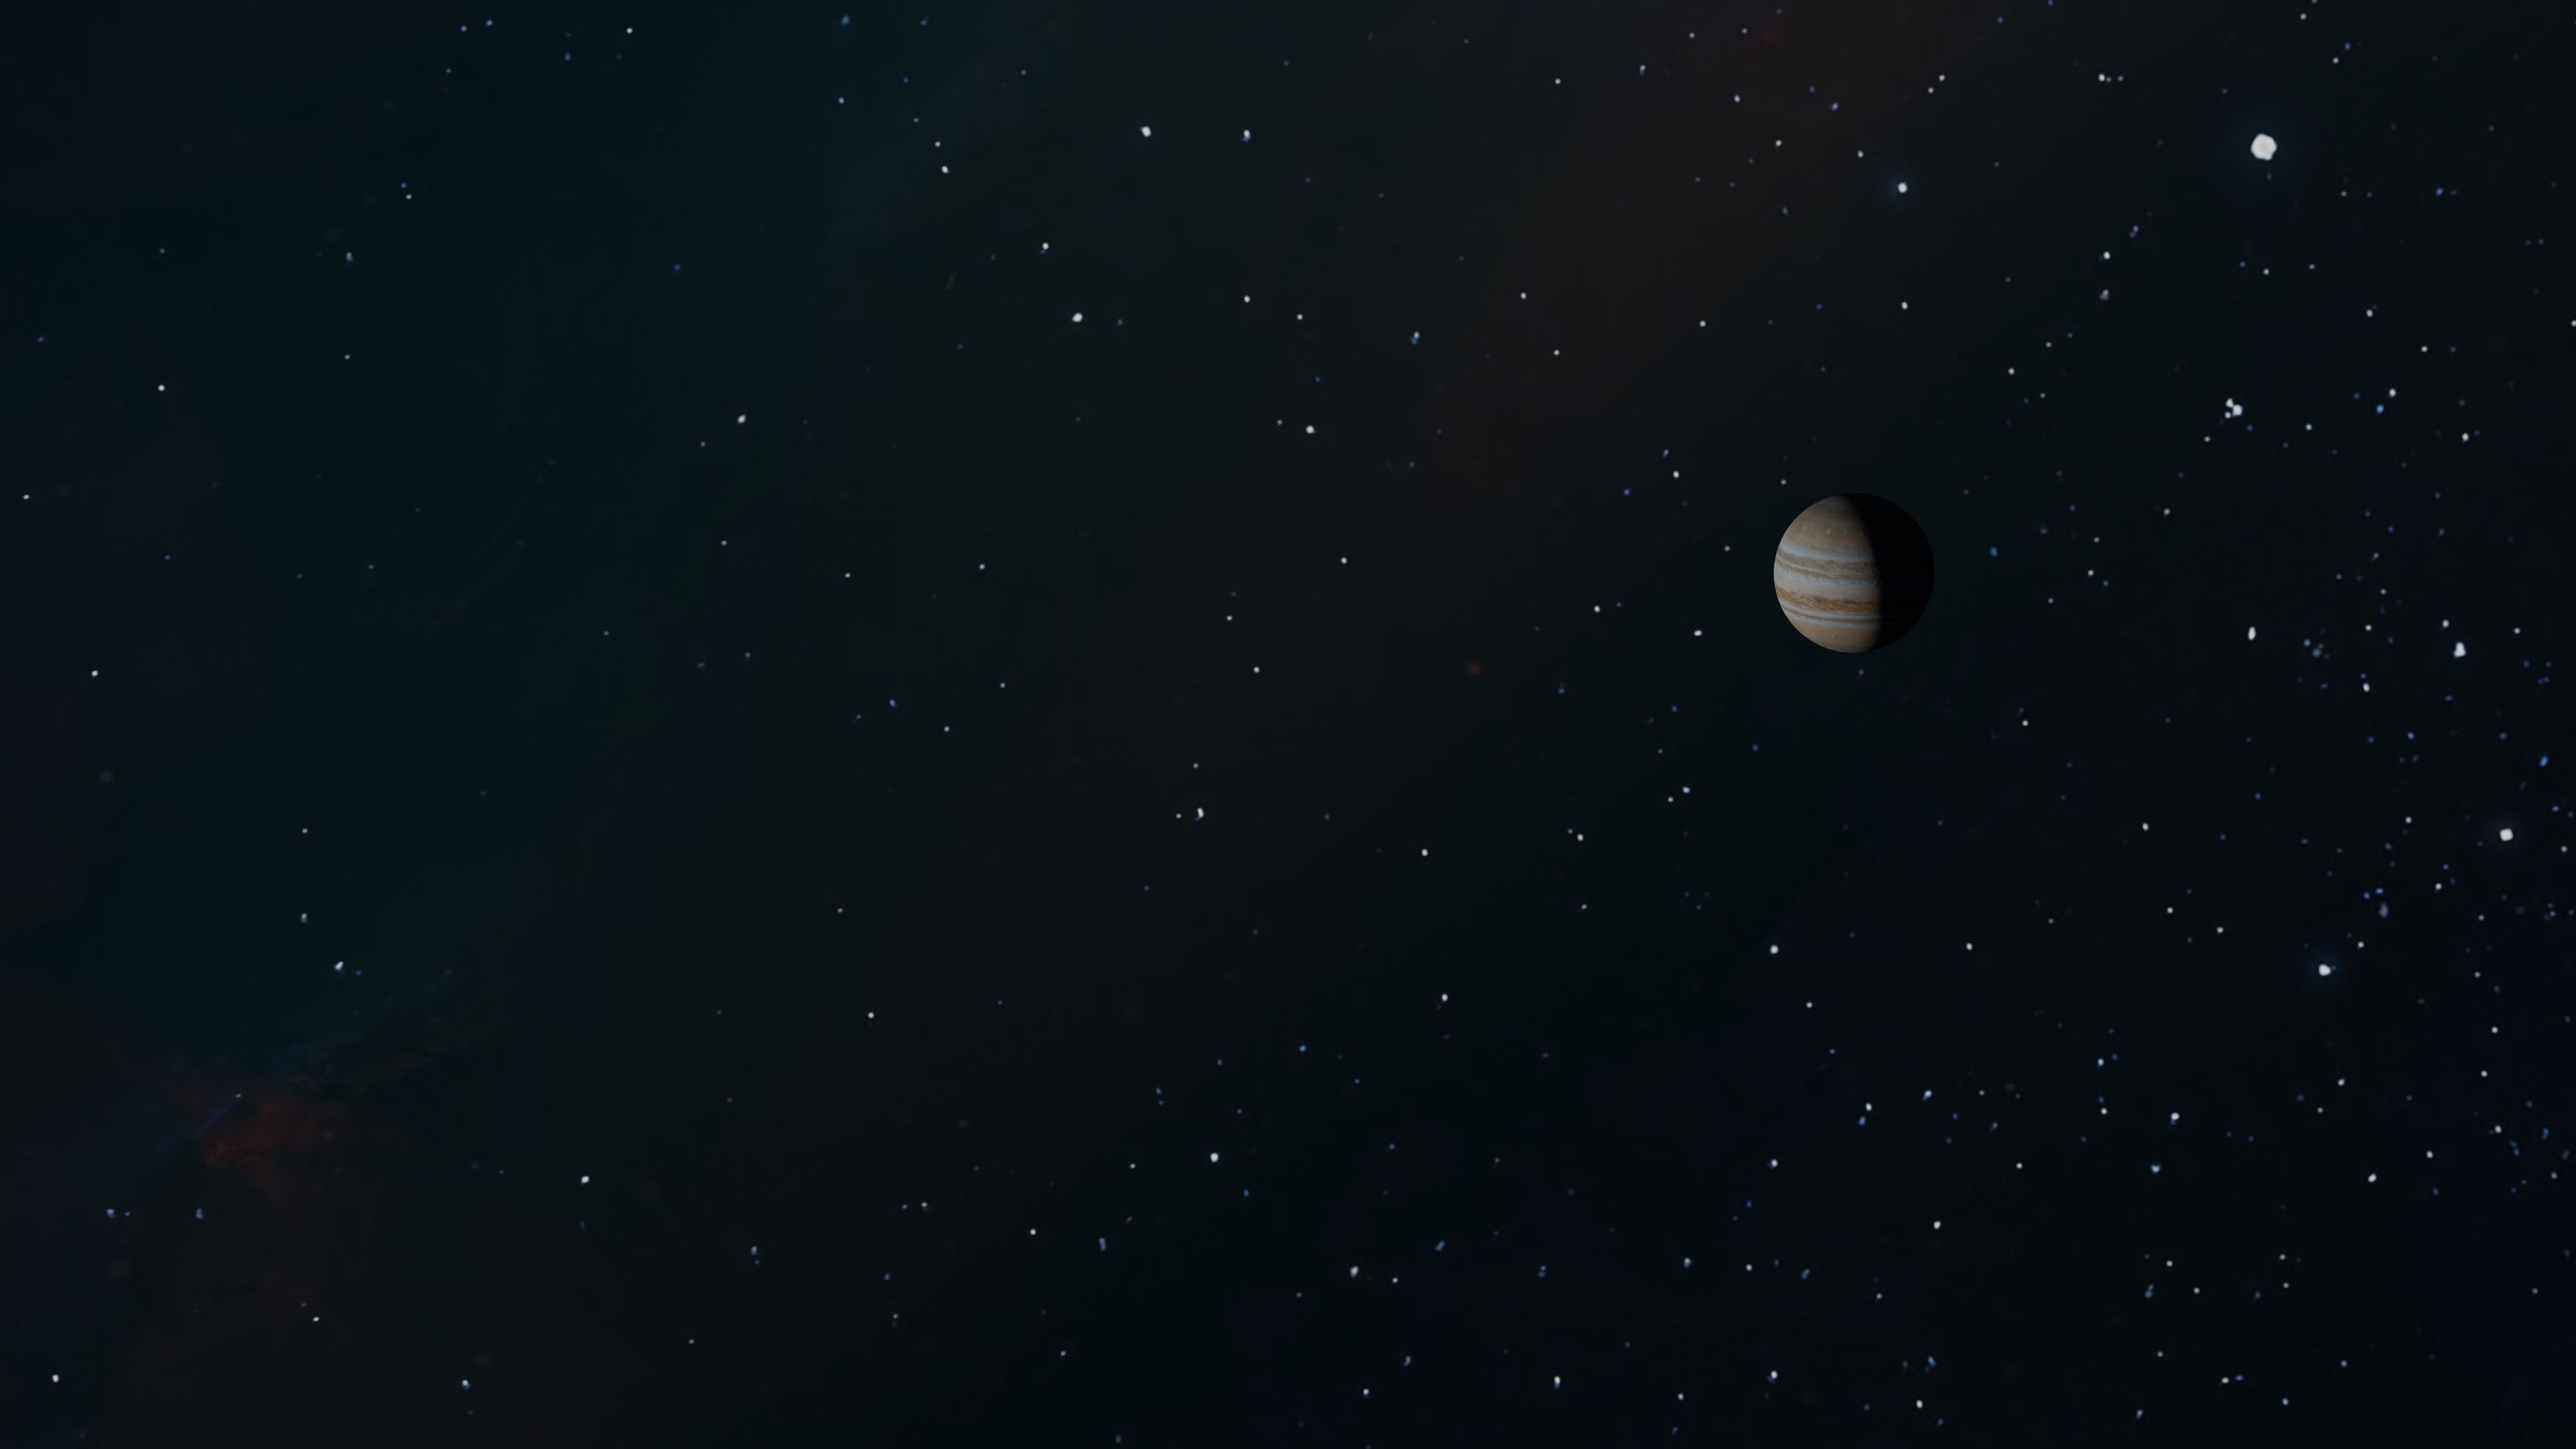
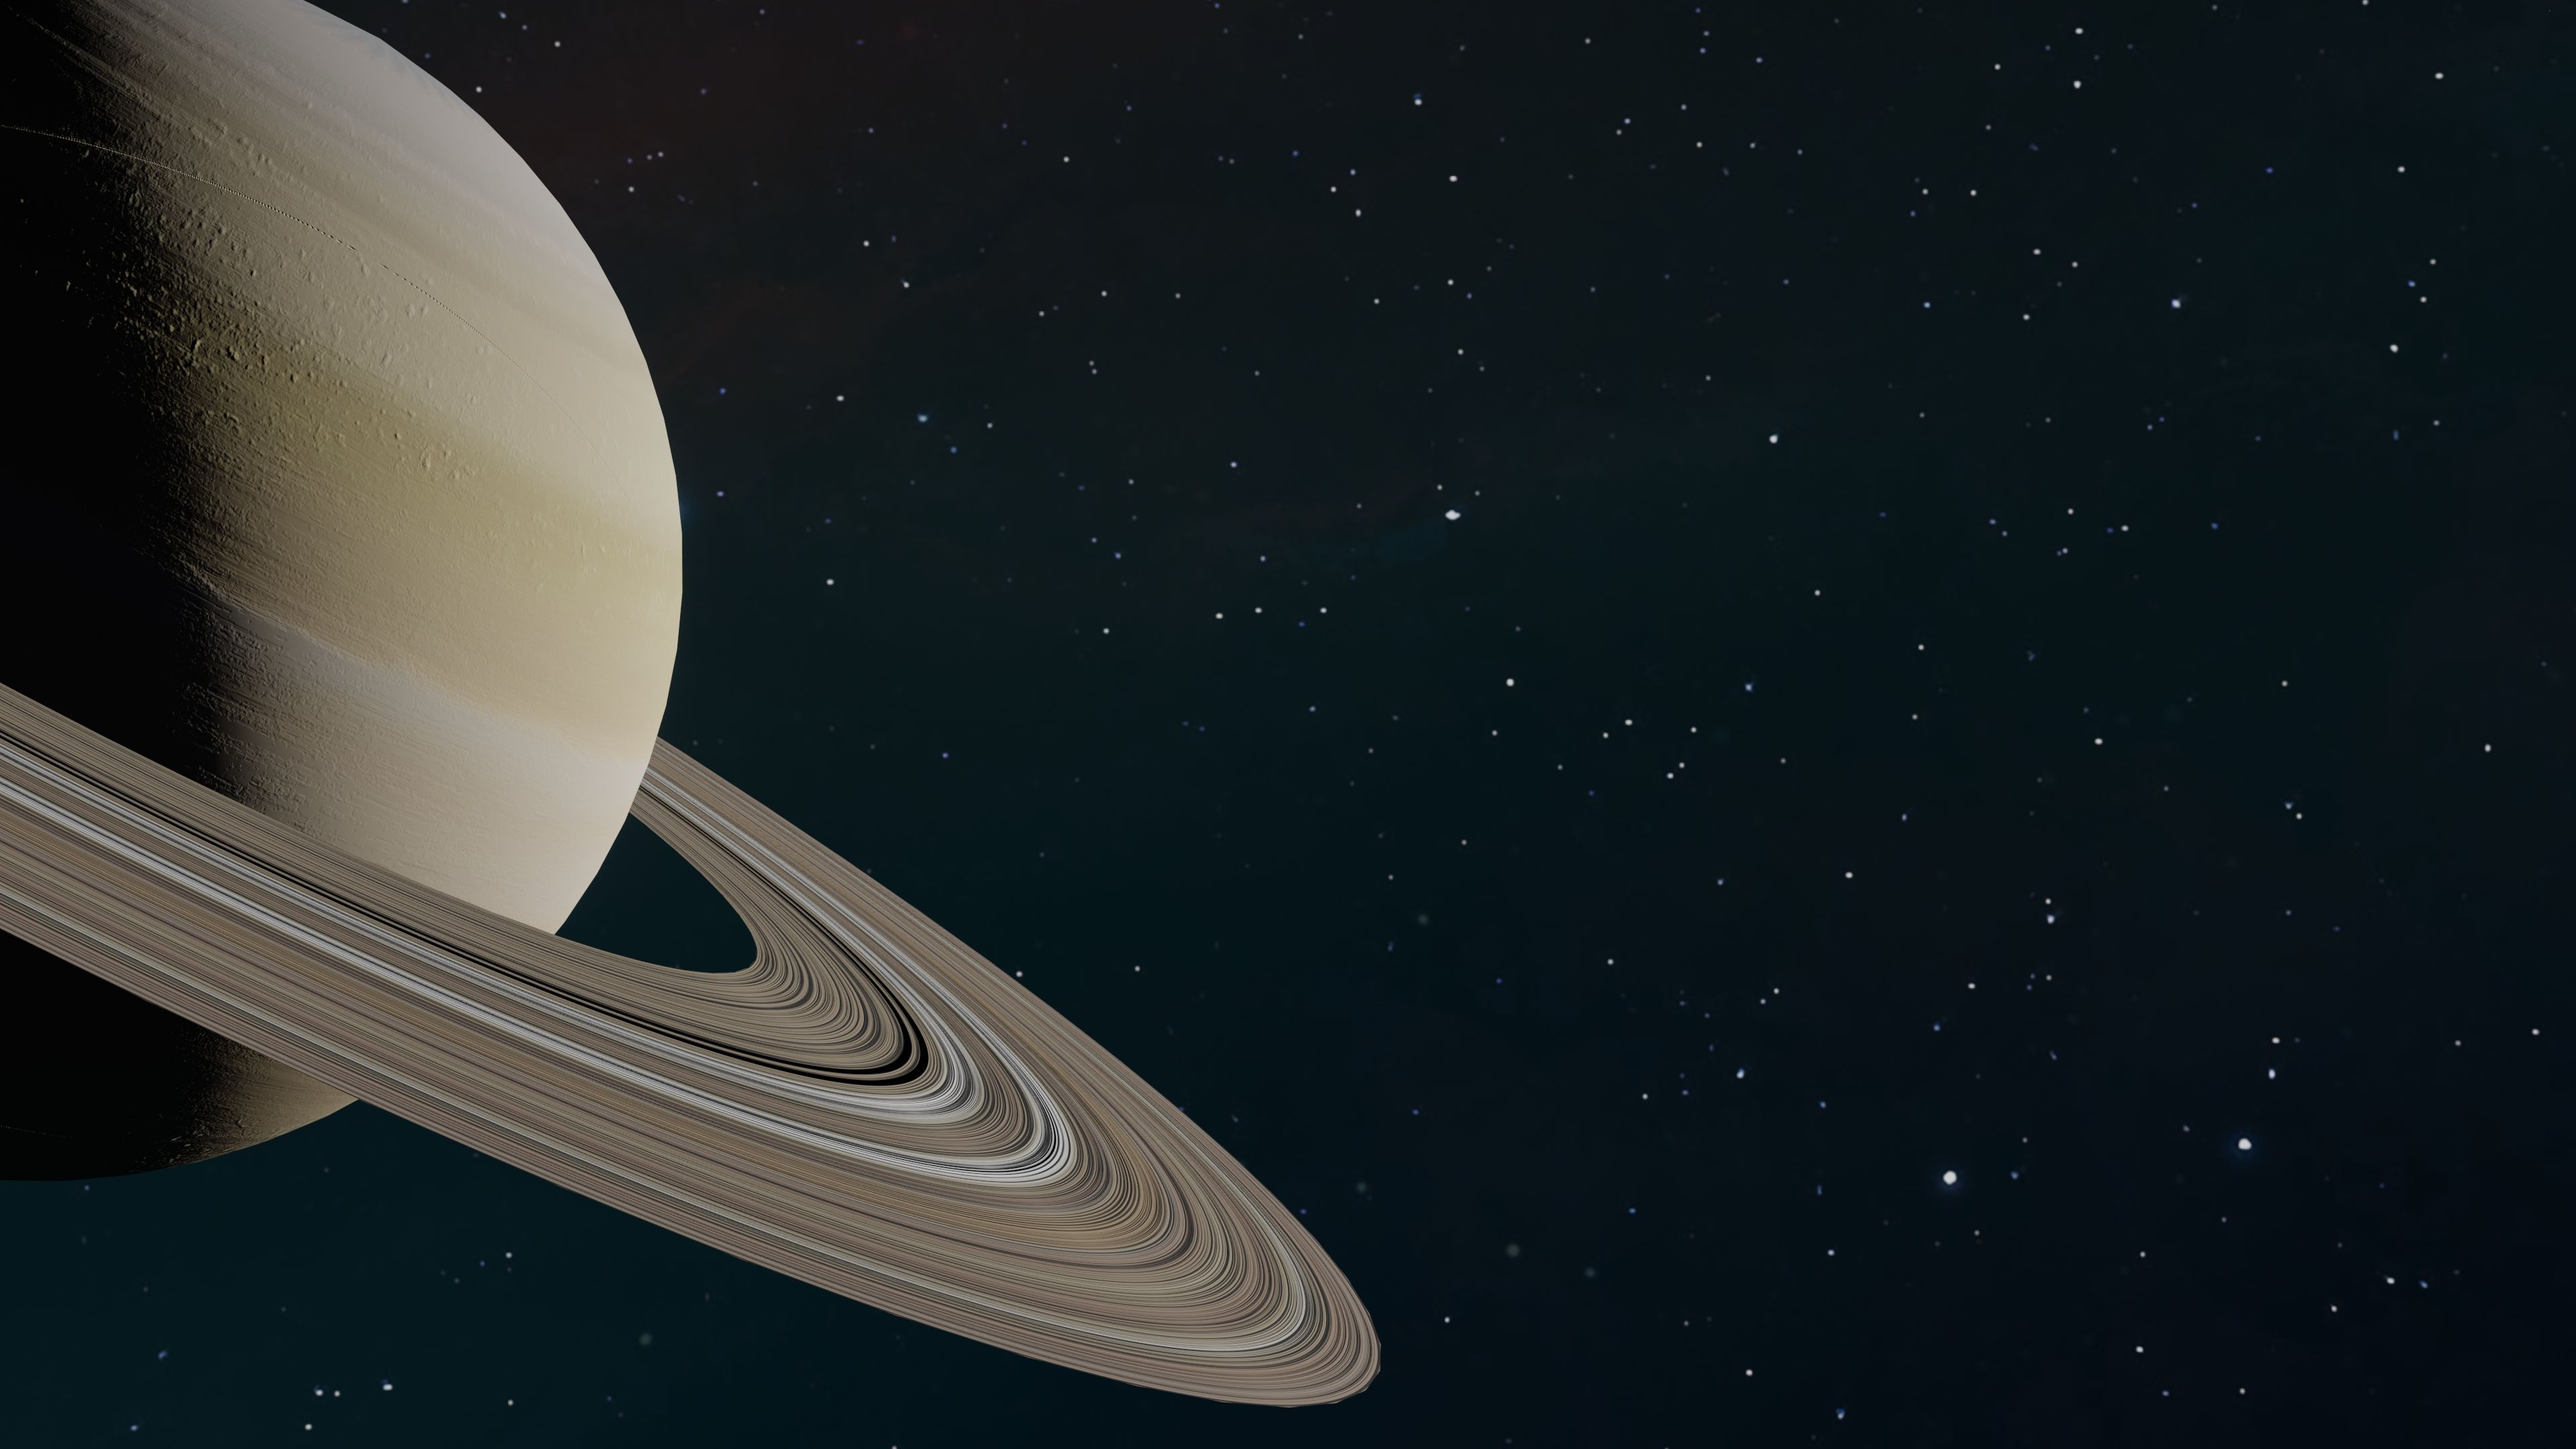
atualizado

Changed region(s): [[0.0, 0.0, 0.5625, 0.9926], [0.6875, 0.3412, 0.75, 0.4653], [0.875, 0.0931, 0.9062, 0.1241]]

diff --git a/Meus exercícios práticos html-css - M2 e M3/Exercício 13 - Landing Page sobre o Espaço/estilo.css b/Meus exercícios práticos html-css - M2 e M3/Exercício 13 - Landing Page sobre o Espaço/estilo.css
@@ -11,14 +11,15 @@
     --cor1: #FFFFFF;
     --cor2: #9448BA;
     --cor3: #34354d;
-    --cor4: #bbbabe;
+    --cor4: #e7ceff;
     --cor5: #18302f;
+    --cor6: #00008b;
 
     --fontetitulo: 'LeagueSpartan';
     --fontepadrão: 'Montserrat', Arial, Helvetica, sans-serif;
 }
 body {
-    background-image: url('imagens/vialacteaimg.jpg');
+    background-image: url('imagens/espaçosideral.jpg');
     background-position: 100%;
     background-size: cover;
     background-repeat: no-repeat;
@@ -30,7 +31,9 @@ header > div {
     background-attachment: fixed;
     background-size: cover;
     height: 100%;
-    width: 100%;
+    width: auto;
+    border: 5px solid var(--cor6);
+    box-shadow: 1.6px 1.6px black;
 }
 header > div > p {
     display: inline-block;
@@ -40,24 +43,36 @@ header > div > p {
     font: bolder 4em var(--fontetitulo);
     text-shadow: 1.5px 1.5px black;
 }
+header > div > p::before {
+    content: '⚝';
+    padding: 9px;
+}
+header > div > p::after {
+    content: '⚝';
+    padding: 9px;
+}
 header > nav {
     text-align: center;
     background-image: url('imagens/espaçoimg2.jpg');
     background-attachment: fixed;
     background-size: cover;  
-    height: 55px;
+    height: 65px;
+    width: auto;
+    border: 5px solid var(--cor5);
+    box-shadow: 1.6px 1.6px black;
 }
 header > nav > p {
     display: inline-block;
-    padding: 6px;
+    padding: 6.5px;
     color: var(--cor4);
-    font: bolder 0.85em var(--fontepadrão);
-    text-shadow: 1px 1.5px black;
+    font: bolder 16px var(--fontetitulo);
+    text-shadow: 1px 1px black;
 }
 header > nav > p:hover {
     background-color: var(--cor5);
     border-bottom: 2px solid var(--cor3);
-    padding: 6px;
+    padding: 6.5px;
+    text-decoration: underline;
 }
 main {
     text-align: center;
@@ -69,7 +84,84 @@ main > div > h1 {
     text-shadow: 1.8px 1.8px black;
 }
 main > div > h3 {
-    font: normal 1.3em var(--fontetitulo);
+    font: normal 1.3em var(--fontepadrão);
     color: var(--cor2);
     text-shadow: 2.1px 2.1px black;
+}
+main > div > p {
+    font: normal 1.025em var(--fontepadrão);
+    color: var(--cor1);
+    text-shadow: 2.1px 2.1px black;
+}
+main > #botão {
+    display: flex;
+    justify-content: center;
+    align-items: center;
+    background-color: rgba(0, 0, 0, 0.432);
+    padding: 7px;
+    font: bolder 1.3em var(--fontetitulo);
+    margin: auto;
+    width: 300px;
+    border: 5px solid #c99ac9;
+    outline: 3px solid var(--cor2);
+}
+main > #botão > p {
+    text-align: center;
+    color: var(--cor2);
+    text-shadow: 1.25px 1.25px black;
+}
+main > #botão > p::before {
+    content: '🚀 ';
+}
+main > #botão:hover {
+    background-color: rgba(44, 41, 41, 0.781);
+}
+.espaçamento {
+    padding: 24px;
+}
+footer {
+    background-color: var(--cor3);
+    width: auto;
+    padding: 10px;
+    text-align: center;
+    margin: auto;
+    box-shadow: 2x 2px black;
+    border: 10px solid var(--cor5);
+}
+footer > div > p {
+    padding-inline: 8px;
+    font: 18px var(--fontepadrão);
+    display: inline;    
+    text-shadow: 0.5px 0.5px black;
+}
+footer > div > p.textorodapé > abbr { 
+    text-decoration: none;
+}
+footer > div > p.textorodapé:hover {
+    background-color: rgba(0, 0, 0, 0.527);
+    text-decoration: underline;
+}
+footer > div > p.textorodapé {
+    color: var(--cor1);
+}
+footer > div > p.barra {
+    color: var(--cor4);
+}
+footer > div > p#textofinal {
+    color: var(--cor1);
+}
+footer > div > div#espaçodalinha > p#barraestrelada {
+    color: var(--cor4);
+}
+footer > div > br.pulo {
+    margin: auto;
+}
+footer > div > #linha {
+    margin: auto;
+    display: block;
+    border-radius: 50px;
+    border: 5px solid var(--cor2);
+}
+#espaçodalinha {
+    padding: 6px;
 }

diff --git a/Meus exercícios práticos html-css - M2 e M3/Exercício 13 - Landing Page sobre o Espaço/landingpageespaço.html b/Meus exercícios práticos html-css - M2 e M3/Exercício 13 - Landing Page sobre o Espaço/landingpageespaço.html
@@ -22,28 +22,34 @@
         </nav>
     </header>
     <main>
-        <div>
-            <h3>BEM VINDO AO COSMOS</h3>
+        <div id="descrição">
+            <h3>BEM-VINDO AO COSMOS</h3>
             <h1>EXPLORANDO O UNIVERSO</h1>
-            <p>Descubra Galáxias, nebulosas, planetas e os mistérios infinitos do cosmos.</p>
+            <p>Descubra Galáxias, nebulosas, planetas e os mistérios infinitos do cosmos.</p>    
+        </div>
+        <div class="espaçamento"></div>
+        <div id="botão">
             <p>INICIAR EXPLORAÇÃO</p>
         </div>
     </main>
+    <div class="espaçamento"></div>
     <footer>
         <div>
-            <p>INÍCIO</p>
-            <p>|</p>
-            <p>SOBRE</p>
-            <p>|</p>
-            <p>EXPLORAÇÃO</p>
-            <p>|</p>
-            <p>GALERIA</p>
-            <p>|</p>
-            <p>CURIOSIDADES</p>
-            <p>|</p>
-            <p>CONTATO</p>
-            <!--Linha a ser colocada aqui-->
-            <p>&copy; 2026 COSMOS. Todos os direitos reservados.</p>
+            <p class="textorodapé"><abbr title="Início">INÍCIO</abbr></p>
+            <p class="barra">|</p>
+            <p class="textorodapé"><abbr title="Sobre o Site">SOBRE</abbr></p>
+            <p class="barra">|</p>
+            <p class="textorodapé"><abbr title="Explore o Site">EXPLORAÇÃO</abbr></p>
+            <p class="barra">|</p>
+            <p class="textorodapé"><abbr title="Galeria do Site">GALERIA</abbr></p>
+            <p class="barra">|</p>
+            <p class="textorodapé"><abbr title="Curiosidades do Site">CURIOSIDADES</abbr></p>
+            <p class="barra">|</p>
+            <p class="textorodapé"><abbr title="Contato do Site">CONTATO</abbr></p>
+            <div id="espaçodalinha">
+                <p id="barraestrelada">&#x272D;-------------------------------------------------------------------------&#x272D;</p>
+            </div>
+            <p id="textofinal">&copy; 2026 COSMOS. Todos os direitos reservados.</p>
         </div>
     </footer>
 </body>
